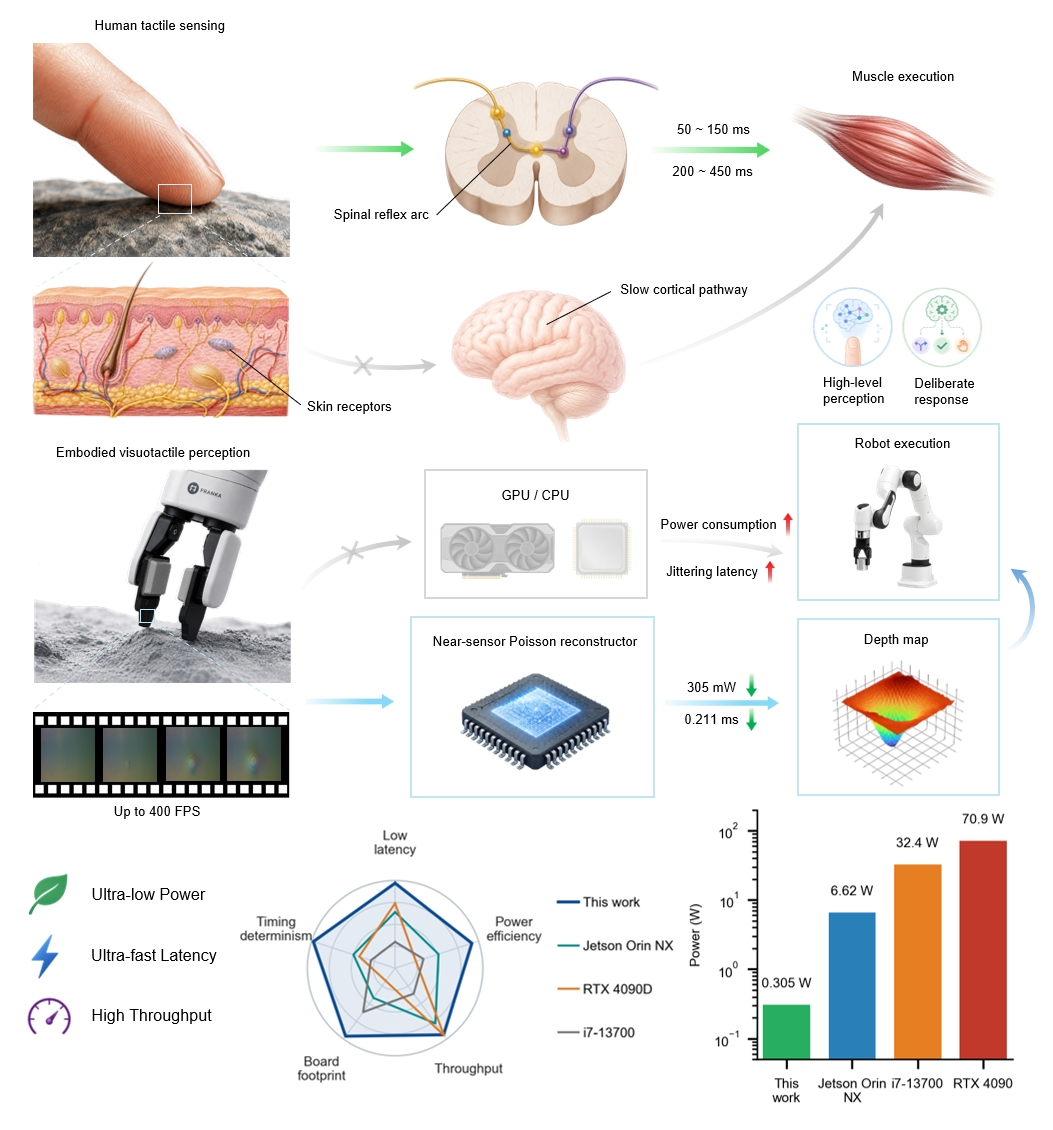
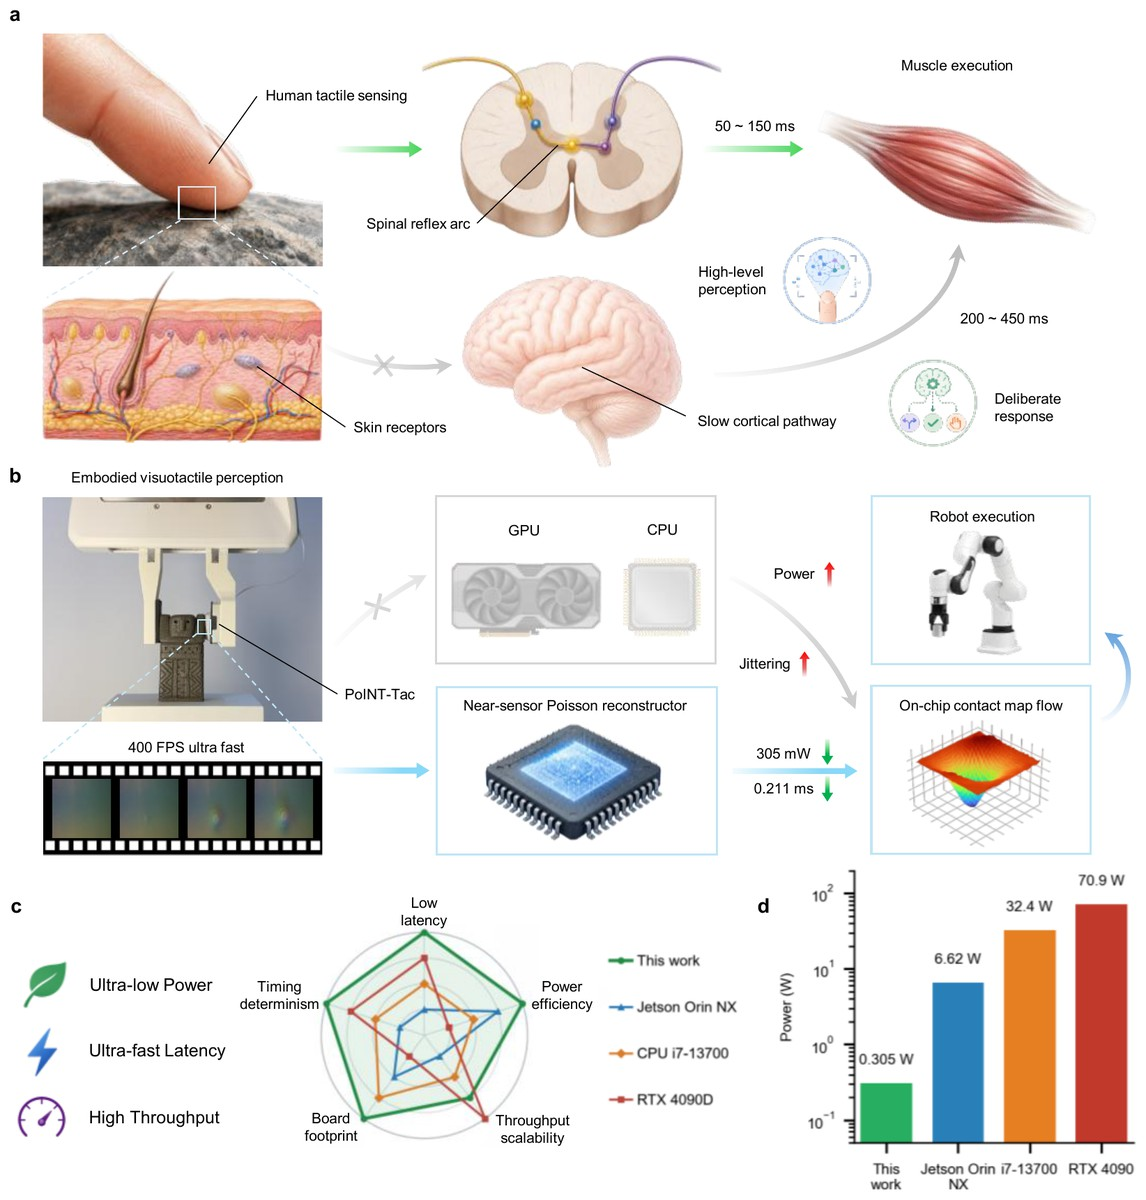
style(about): re-render Fig.1 from the paper PDF, equal-width thumbnails
First publication's figure is now rendered straight from the manuscript's figure/fig1.pdf at 300 dpi with the page margins trimmed, replacing the earlier screenshot-quality crop. All three publication thumbnails share a fixed 300 px column so the rows line up, and the ProxiTac entry gets a matching placeholder box instead of a broken-image icon until its figure exists.

Changed region(s): [[0.0, 0.0, 1.0, 0.9912], [0.5166, 0.7743, 0.6078, 0.8053], [0.0, 0.3717, 0.0304, 0.4027]]

diff --git a/_pages/about.md b/_pages/about.md
@@ -20,7 +20,7 @@ I am an undergraduate student researcher at Robotics Interface and Manipulation 
 
 <!-- Near-sensor Computing for Rapid Visuotactile Perception -->
 <div style="display: flex; align-items: flex-start; margin-bottom: 30px;">
-  <div style="flex: 0 0 40%; margin-right: 20px;">
+  <div style="flex: 0 0 300px; margin-right: 20px;">
     <img src="/images/Fig1_Overview.jpg" style="width: 100%; border-radius: 8px; border: 1px solid #ddd; box-shadow: 0 2px 4px rgba(0,0,0,0.1);">
   </div>
   <div style="flex: 1;">
@@ -39,7 +39,7 @@ I am an undergraduate student researcher at Robotics Interface and Manipulation 
 
 <!-- TriCoSphere: A Lightweight, High-Speed, and Large-Workspace Coaxial Spherical Parallel Manipulator for Learning-Based Dexterous Grasping -->
 <div style="display: flex; align-items: flex-start; margin-bottom: 30px;">
-  <div style="flex: 0 0 25%; margin-right: 20px;">
+  <div style="flex: 0 0 300px; margin-right: 20px;">
     <img src="/images/paper2_teaser.jpg" style="width: 100%; border-radius: 8px; border: 1px solid #ddd; box-shadow: 0 2px 4px rgba(0,0,0,0.1);">
   </div>
   <div style="flex: 1;">
@@ -57,8 +57,10 @@ I am an undergraduate student researcher at Robotics Interface and Manipulation 
 
 <!-- ProxiTac: A Plug-and-Play Wearable Proximity-Tactile Sensor for Cross-Embodiment Hand Data Collection -->
 <div style="display: flex; align-items: flex-start; margin-bottom: 30px;">
-  <div style="flex: 0 0 25%; margin-right: 20px;">
-    <img src="/images/tactile_fingertip.jpg" style="width: 100%; border-radius: 8px; border: 1px solid #ddd; box-shadow: 0 2px 4px rgba(0,0,0,0.1);">
+  <div style="flex: 0 0 300px; margin-right: 20px;">
+    <div style="width: 100%; height: 225px; border-radius: 8px; border: 1px dashed #d0d0d0; background: #fafafa; display: flex; align-items: center; justify-content: center; color: #9a9a9a; font-size: 0.85em;">
+      Figure coming soon
+    </div>
   </div>
   <div style="flex: 1;">
     <div style="font-size: 1.15em; font-weight: bold; margin-bottom: 5px;">
